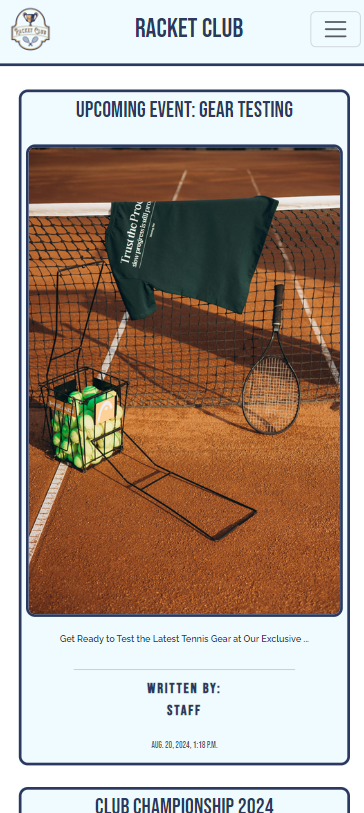
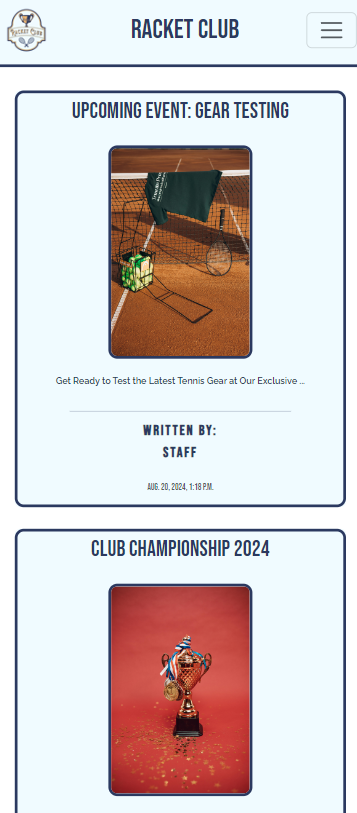
Docs: Update images
When going through all the pages one more time and
changing the size of the images, I needed to
update the images in the README.

Also styled the errorpages fonts to match the
design of the page.

diff --git a/templates/403.html b/templates/403.html
@@ -4,12 +4,12 @@
 {% load static %}
 
 <div class="container card-body blue-border no-margin-left white-background-2">
-    <h1>Whoopsie!</h1>
+    <h1 class="nav-font">Whoopsie!</h1>
     <img src="{% static 'images/error.png' %}" class="card-img-top blue-border" alt="error">
     <p class="content-text">We're sorry, but we think the ball went out!<br>
     If you think this problem are something we shall look in to, please contact us!</p></p>
-    <h2><a href="{% url 'index' %}" class="article-link darkblue">Return to the homepage</a>  |  
-        <a href="{% url 'contact' %}" class="article-link darkblue">Contact us</a></h2>
+    <h2><a href="{% url 'index' %}" class="article-link darkblue nav-font">Return to the homepage</a>  |  
+        <a href="{% url 'contact' %}" class="article-link darkblue nav-font">Contact us</a></h2>
 
 </div>
 {% endblock %}

diff --git a/templates/404.html b/templates/404.html
@@ -4,12 +4,12 @@
 {% load static %}
 
 <div class="container card-body blue-border no-margin-left white-background-2">
-    <h1>Whoopsie!</h1>
+    <h1 class="nav-font">Whoopsie!</h1>
     <img src="{% static 'images/error.png' %}" class="card-img-top blue-border" alt="error">
     <p class="content-text">We're sorry, but we think the ball went out!<br>
     If you think this problem are something we shall look in to, please contact us!</p></p>
-    <h2><a href="{% url 'index' %}" class="article-link darkblue">Return to the homepage</a>  |  
-        <a href="{% url 'contact' %}" class="article-link darkblue">Contact us</a></h2>
+    <h2><a href="{% url 'index' %}" class="article-link darkblue nav-font">Return to the homepage</a>  |  
+        <a href="{% url 'contact' %}" class="article-link darkblue nav-font">Contact us</a></h2>
 
 </div>
 {% endblock %}

diff --git a/templates/500.html b/templates/500.html
@@ -4,12 +4,12 @@
 {% load static %}
 
 <div class="container card-body blue-border no-margin-left white-background-2">
-    <h1>Whoopsie!</h1>
+    <h1 class="nav-font">Whoopsie!</h1>
     <img src="{% static 'images/error.png' %}" class="card-img-top blue-border" alt="error">
     <p class="content-text">We're sorry, but we think the ball went out!<br>
     If you think this problem are something we shall look in to, please contact us!</p></p>
-    <h2><a href="{% url 'index' %}" class="article-link darkblue">Return to the homepage</a>  |  
-        <a href="{% url 'contact' %}" class="article-link darkblue">Contact us</a></h2>
+    <h2><a href="{% url 'index' %}" class="article-link darkblue nav-font">Return to the homepage</a>  |  
+        <a href="{% url 'contact' %}" class="article-link darkblue nav-font">Contact us</a></h2>
 
 </div>
 {% endblock %}

diff --git a/templates/504.html b/templates/504.html
@@ -4,12 +4,12 @@
 {% load static %}
 
 <div class="container card-body blue-border no-margin-left white-background-2">
-    <h1>Whoopsie!</h1>
+    <h1 class="nav-font">Whoopsie!</h1>
     <img src="{% static 'images/error.png' %}" class="card-img-top blue-border" alt="error">
     <p class="content-text">We're sorry, but we think the ball went out!<br>
     If you think this problem are something we shall look in to, please contact us!</p></p>
-    <h2><a href="{% url 'index' %}" class="article-link darkblue">Return to the homepage</a>  |  
-        <a href="{% url 'contact' %}" class="article-link darkblue">Contact us</a></h2>
+    <h2><a href="{% url 'index' %}" class="article-link darkblue nav-font">Return to the homepage</a>  |  
+        <a href="{% url 'contact' %}" class="article-link darkblue nav-font">Contact us</a></h2>
 
 </div>
 {% endblock %}

diff --git a/templates/aboutus.html b/templates/aboutus.html
@@ -10,7 +10,7 @@
         </div>
         <div class="col-md-8 col-s-12 nav-font">
             <h1>The Racket Club</h1>
-            <article class="content-text">
+            <article class="content-text darkblue">
                 {{ content.content|safe }}
             </article>
         </div>

diff --git a/racketclub/settings.py b/racketclub/settings.py
@@ -28,7 +28,7 @@ TEMPLATES_DIR = os.path.join(BASE_DIR, 'templates')
 SECRET_KEY = os.environ.get('SECRET_KEY')
 
 # SECURITY WARNING: don't run with debug turned on in production!
-DEBUG = True
+DEBUG = False
 
 X_FRAME_OPTIONS = 'SAMEORIGIN'
 

diff --git a/README.md b/README.md
@@ -83,6 +83,15 @@ When a user lands on the homepage on big screens, there are a header with a pict
 <img src="readme/homepage2.png" height="300" width="auto"><br><br>
 For user that goes to this page on smallest screens, the menu has gone up to the top of the page as a dropdown menu and all articles are now on top of eachother instead of three by three on the rows. The footer remains on the bottom of the page.
 
+## Article page
+
+When a user click on an article card, they will get into this view:<br><br>
+<img src="readme/articlepage1.png" height="300" width="auto"><br><br>
+First they will se the attached image, then the title and after that the author and when it was created. I´ve put the image on top because when a user wants to read the article it more suitable to have the image on top of the title so it doesn´t interrupting with a space between title and content.<br><br><img src="readme/articlepage2.png" height="300" width="auto"><br><br>
+Further down on the article page there is a commenting function only available for the user that are signed in.<br>
+For the user on smaller screens the image are smaller so it won´t take that much of space on the screen.<br>
+<img src="readme/articlepage3.png" height="300" width="auto"><br><br>
+
 ## Rules page
 
 <img src="readme/rulespage.png" height="300" width="auto"><br><br>
@@ -113,7 +122,7 @@ If all goes through with valid data input to the form the user will get directed
 <img src="readme/profile.png"><br><br>
 When a user wants to see their booking that they have made there is a menu that comes down if you click on the profile image in the main menu. Here are an option that´s named "my bookings"<br><br>
 <img src="readme/editbooking.png"><br><br>
-<img src="readme/mybookings2.png"><br><br>
+<img src="readme/mybookings2.png" height="300"><br><br>
 After the user has clicked on "my bookings" this view comes up and listing all of the bookings made by this specific user. Behind every booking there are options to either edit or delete a booking. If a user clicks on "Edit" the view below comes up.<br><br>
 <img src="readme/editbooking2.png" height="300" width="auto"><br><br>
 This view is similar to the booking form with a small change that it updates the current booking and as the button says "update booking" this will update and change the time of the booking that was chosen.<br><br>
